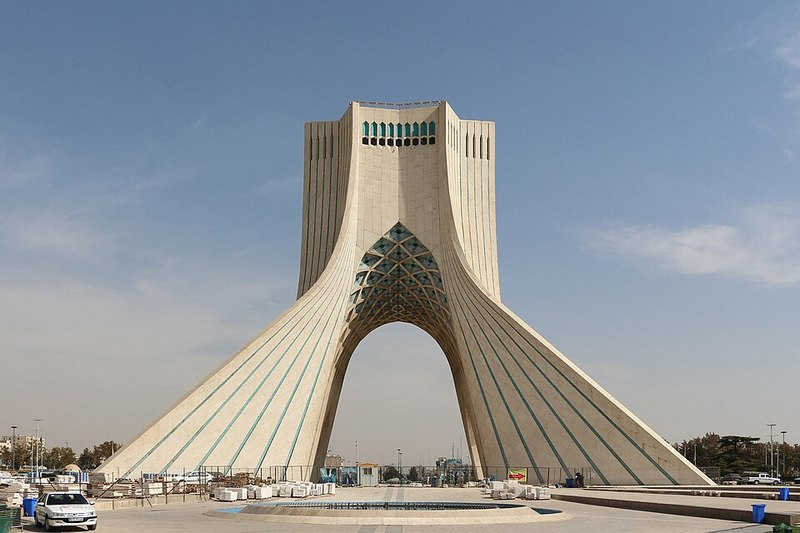
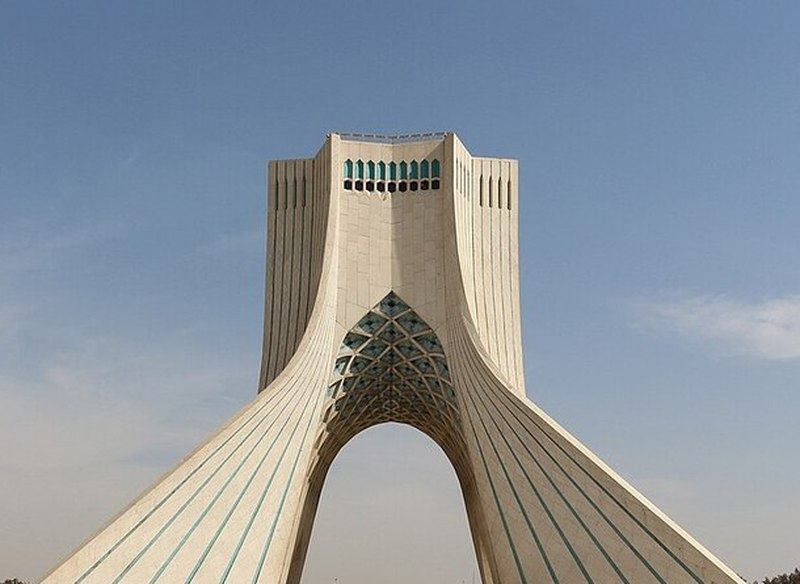
Exclude three crowded landmark views and tighten the Azadi crop
Keep 121 landmark questions after the final full-size review. Remove views with people along the Ponte Vecchio riverbank, Puente Nuevo deck and Geneva jetty; crop the Azadi photo above the people at its base.

Claude-Session: https://claude.ai/code/session_01YPmvAzpX1svwrVdzYck8C6

diff --git a/quest-data/kunuz-pack-landmark-photo.js b/quest-data/kunuz-pack-landmark-photo.js
@@ -1,6 +1,6 @@
 KZV.register({
   "slug": "landmark-photo",
-  "stamp": "124-b267605d",
+  "stamp": "121-86446ffa",
   "cats": [
     {
       "id": "landmark-photo",
@@ -910,35 +910,6 @@ KZV.register({
       }
     },
     {
-      "id": "landmark-photo-0070",
-      "cat": "landmark-photo",
-      "type": "mcq",
-      "fmt": "photo",
-      "q": "هذا المعلم في أي دولة؟",
-      "choices": [
-        "فرنسا",
-        "البرتغال",
-        "إيطاليا",
-        "إسبانيا"
-      ],
-      "answer": 2,
-      "why": "جسر بونتي فيكيو في إيطاليا.",
-      "src": [
-        "https://commons.wikimedia.org/wiki/File:Ponte_Vecchio_Venecia.jpg"
-      ],
-      "level": 2,
-      "status": "approved",
-      "vis": {
-        "kind": "photo",
-        "effect": "plain",
-        "src": "quest-data/photos/landmarks/l0070.jpg",
-        "credit": {
-          "author": "Diego Pierdant",
-          "license": "CC BY-SA 4.0"
-        }
-      }
-    },
-    {
       "id": "landmark-photo-0073",
       "cat": "landmark-photo",
       "type": "mcq",
@@ -993,35 +964,6 @@ KZV.register({
         "credit": {
           "author": "Naotake Murayama",
           "license": "CC BY 2.0"
-        }
-      }
-    },
-    {
-      "id": "landmark-photo-0076",
-      "cat": "landmark-photo",
-      "type": "mcq",
-      "fmt": "photo",
-      "q": "هذا المعلم في أي دولة؟",
-      "choices": [
-        "إسبانيا",
-        "البرتغال",
-        "إيطاليا",
-        "فرنسا"
-      ],
-      "answer": 0,
-      "why": "الجسر الجديد في رندة في إسبانيا.",
-      "src": [
-        "https://commons.wikimedia.org/wiki/File:Puente-Nuevo-Ronda.jpg"
-      ],
-      "level": 2,
-      "status": "approved",
-      "vis": {
-        "kind": "photo",
-        "effect": "plain",
-        "src": "quest-data/photos/landmarks/l0076.jpg",
-        "credit": {
-          "author": "Peperle",
-          "license": "CC BY-SA 4.0"
         }
       }
     },
@@ -1138,35 +1080,6 @@ KZV.register({
         "credit": {
           "author": "F.Eveleens",
           "license": "CC BY 3.0"
-        }
-      }
-    },
-    {
-      "id": "landmark-photo-0087",
-      "cat": "landmark-photo",
-      "type": "mcq",
-      "fmt": "photo",
-      "q": "هذا المعلم في أي دولة؟",
-      "choices": [
-        "إيطاليا",
-        "سويسرا",
-        "النمسا",
-        "فرنسا"
-      ],
-      "answer": 1,
-      "why": "نافورة جنيف في سويسرا.",
-      "src": [
-        "https://commons.wikimedia.org/wiki/File:Le_jet_d-eau_de_Gen%C3%A8ve.jpg"
-      ],
-      "level": 2,
-      "status": "approved",
-      "vis": {
-        "kind": "photo",
-        "effect": "plain",
-        "src": "quest-data/photos/landmarks/l0087.jpg",
-        "credit": {
-          "author": "Bernard Vogel",
-          "license": "CC BY-SA 4.0"
         }
       }
     },
